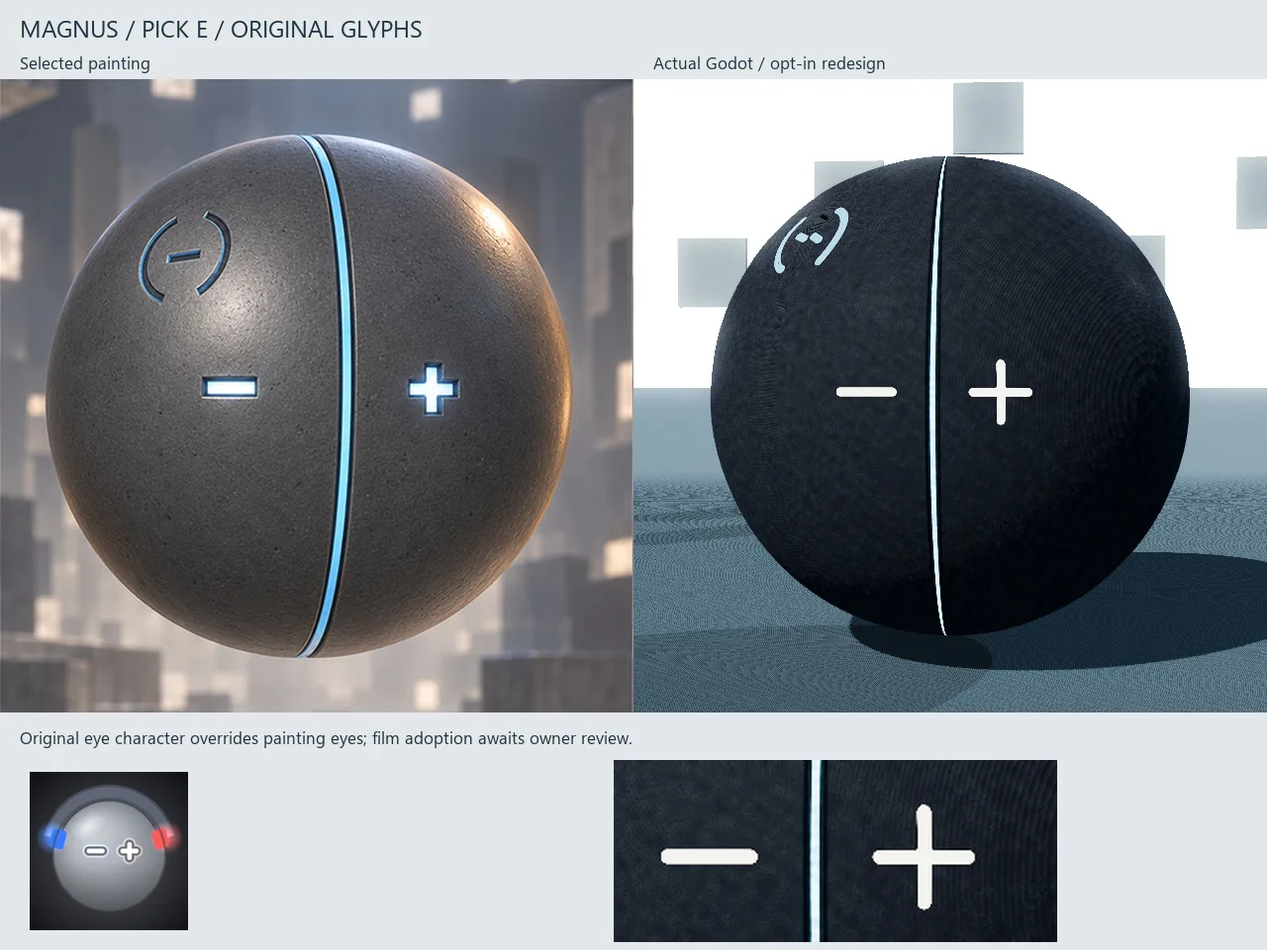
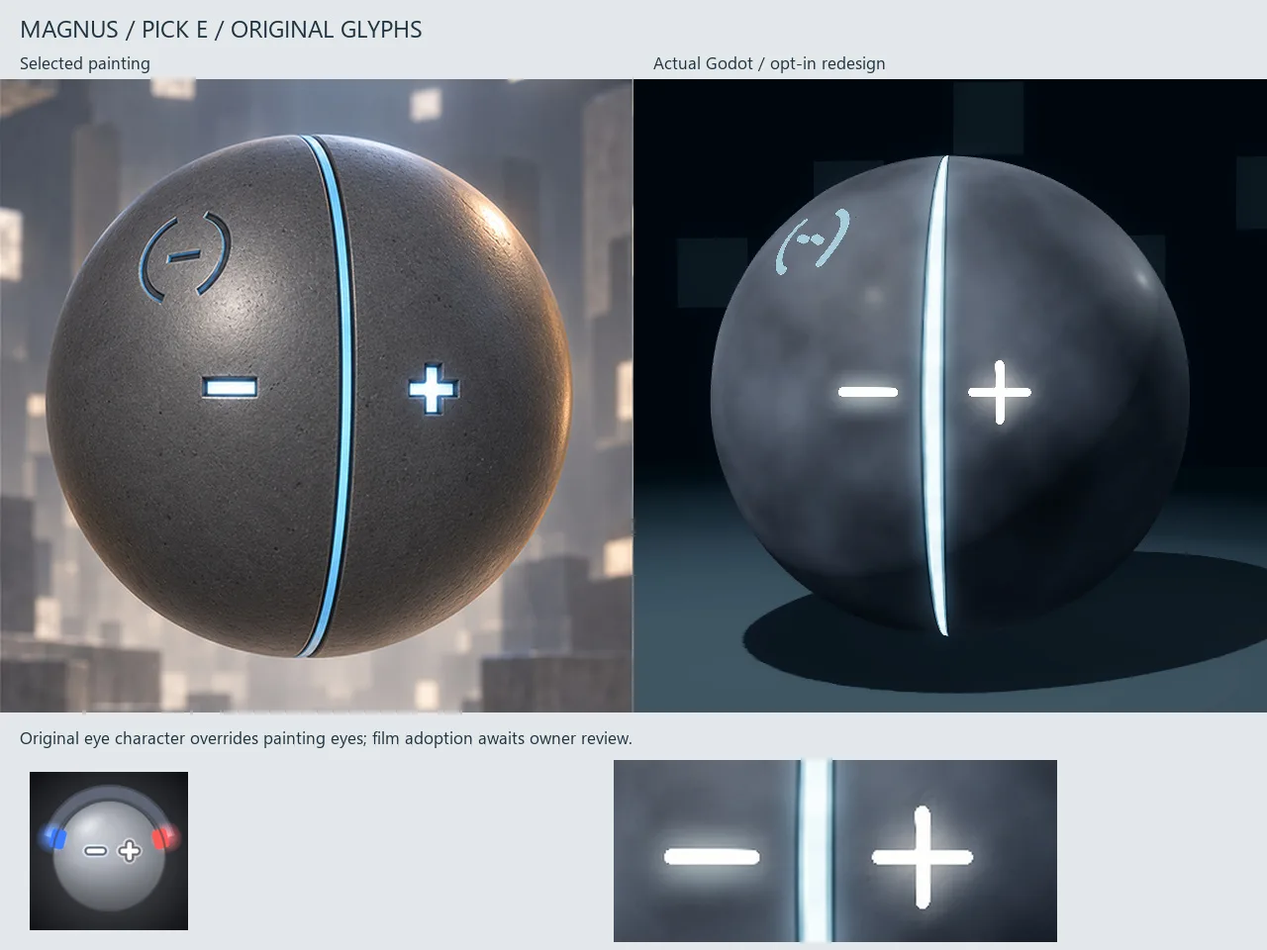
Update orb comparisons with smooth shells

diff --git a/index.html b/index.html
@@ -1,1 +1,1 @@
-<!doctype html><html lang="en"><head><meta charset="utf-8"><meta name="viewport" content="width=device-width,initial-scale=1"><meta name="description" content="Orb Fighters: building a living sandbox, one readable clash at a time."><meta name="color-scheme" content="light"><title>Development journal &middot; Orb Fighters</title><link rel="stylesheet" href="assets/style.css"></head><body><a class="skip" href="#main">Skip to content</a><header><a class="brand" href="index.html"><span class="brand-mark" aria-hidden="true">OF</span><span>ORB FIGHTERS<small>DEVELOPMENT JOURNAL</small></span></a><nav aria-label="Main navigation"><a href="index.html" aria-current="page">Home</a><a href="milestones.html">Milestones</a><a href="gallery.html">Gallery</a><a href="design.html">Design</a></nav></header><main id="main"><section class="hero"><div><p class="eyebrow">A WORLD IN THE MAKING</p><h1>Small beings.<br><span>Limitless possibility.</span></h1><p class="intro">Follow Orb Fighters as a living sandbox takes shape: expressive orbs, physical powers, and fights that leave a mark.</p><a class="button" href="milestones.html">Follow the milestones <span aria-hidden="true">&rarr;</span></a></div><div class="hero-media"><a class="hero-image-link" href="posts/2026-10-02-the-orbs-side-by-side.html" aria-label="Read the latest visual development update"><figure class="wip-still"><img src="assets/media/2026-10-02-the-orbs-side-by-side-still-2.webp" alt="MAGNUS selected slate direction beside the dark rendered shell with original minus and plus glyphs" loading="eager" decoding="async"><figcaption><span class="wip-label">Work in progress</span> MAGNUS first-look WIP: the dark slate shell and blue meridian preserve its distinct identity. Surface finish and depth of light remain unfinished.</figcaption></figure></a></div></section><section class="updates"><div class="section-title"><h2>Latest from the workshop</h2><span>NEWEST FIRST</span></div><div class="post-grid"><article class="post-card"><figure class="wip-still"><a href="assets/media/2026-10-02-a-fight-you-can-follow-still-2.webp"><img src="assets/media/2026-10-02-a-fight-you-can-follow-still-2.webp" alt="Round BLAZE descends toward an unobstructed tiled floor with TERRA visible nearby" width="1080" height="1920" loading="lazy" decoding="async"></a><figcaption><span class="wip-label">Work in progress</span> 8.867 s - BLAZE stays round during descent, with the landing floor and TERRA visible.</figcaption></figure><div class="post-meta"><time datetime="2026-10-02T16:28+09:00">02 Oct 2026, 16:28 KST</time><span class="badge">Work in progress</span></div><h2><a href="posts/2026-10-02-a-fight-you-can-follow.html">Letting the landing read</a></h2><p>The reference fight now shows BLAZE&#39;s landing without foreground stone covering the contact. BLAZE remains round as it descends, then compresses after touching the floor. That makes the fall&#39;s weight easier to read.</p><a class="read-more" href="posts/2026-10-02-a-fight-you-can-follow.html">Read the update &rarr;</a></article><article class="post-card"><figure class="wip-still"><a href="assets/media/2026-10-02-the-orbs-side-by-side-still-1.webp"><img src="assets/media/2026-10-02-the-orbs-side-by-side-still-1.webp" alt="Today’s eight selected shell paintings beside actual Godot renders and original glyph crops" loading="lazy" decoding="async"></a><figcaption><span class="wip-label">Work in progress</span> Today’s first batch: selected paintings beside current renders. Original small glyphs and distinct shell colours are retained. Stone/ceramic finish, recessed wider channels and contained light are still being polished.</figcaption></figure><div class="post-meta"><time datetime="2026-10-02T16:05:00+09:00">02 Oct 2026, 16:05 KST</time><span class="badge">Work in progress</span></div><h2><a href="posts/2026-10-02-the-orbs-side-by-side.html">Original small glyphs, eight shell directions</a></h2><p>Eight orbs now share a clearer visual direction without losing their individual colours or small original eye glyphs. These pairs put the selected shell paintings beside the first rendered batch.</p><a class="read-more" href="posts/2026-10-02-the-orbs-side-by-side.html">Read the update &rarr;</a></article><article class="post-card"><figure class="wip-still"><img src="assets/media/2026-10-01-a-cleaner-reference-fight-still-1.webp" alt="BLAZE drives an orange blade toward TERRA amid sparks in the earlier reference pass" width="1080" height="1920" loading="lazy" decoding="async"><figcaption><span class="wip-label">Work in progress</span> Before: the contact is readable, but bright sparks and steam crowd its focal point. This is authored reference-animation WIP.</figcaption></figure><div class="post-meta"><time datetime="2026-10-01T11:07:00+09:00">01 Oct 2026, 11:07 KST</time><span class="badge">M1</span><span class="badge">In progress</span></div><h2><a href="posts/2026-10-01-a-cleaner-reference-fight.html">A cleaner reference fight</a></h2><p>We have withdrawn the short video from this reference-fight update because the action is too confusing. Frequent angle changes, crowded fighters and weak plasma shapes make the exchange hard to follow. These work-in-progress stills remain for comparison while we rebuild the sequence.</p><a class="read-more" href="posts/2026-10-01-a-cleaner-reference-fight.html">Read the update <span aria-hidden="true">&rarr;</span></a></article><article class="post-card"><figure class="wip-still"><img src="assets/media/2026-10-01-moves-tested-as-a-complete-chain-still-1.webp" alt="Warm earth-colored TERRA faces vivid red BLAZE at a staged contact" width="1080" height="1920" loading="lazy" decoding="async"><figcaption><span class="wip-label">Work in progress</span> Latest selected orb material WIP. Red body shading is clearer, but the blade remains hidden; the next reference render changes the contact staging.</figcaption></figure><div class="post-meta"><time datetime="2026-10-01T09:44:00+09:00">01 Oct 2026, 09:44 KST</time><span class="badge">M1</span><span class="badge">In progress</span></div><h2><a href="posts/2026-10-01-moves-tested-as-a-complete-chain.html">Testing moves as a complete chain</a></h2><p>A technique can now reach the native duel core as a complete ordered chain of moves. The core quotes the whole chain before accepting it, so a later step cannot quietly overspend Glow or reuse matter that an earlier step has already reserved. An invalid step leaves the world unchanged.</p><a class="read-more" href="posts/2026-10-01-moves-tested-as-a-complete-chain.html">Read the update <span aria-hidden="true">&rarr;</span></a></article><article class="post-card"><figure class="wip-still"><img src="assets/media/2026-10-01-kept-builds-survive-a-fresh-world-still-1.webp" alt="A surviving stone pillar stands after a scripted Keep action" width="1080" height="1920" loading="lazy" decoding="async"><figcaption><span class="wip-label">Work in progress</span> Later native capture of the paid kept build. Its surviving state is tested, but the pale box material is unfinished; detailed stone shading is next.</figcaption></figure><div class="post-meta"><time datetime="2026-10-01T09:01:00+09:00">01 Oct 2026, 09:01 KST</time><span class="badge">M1</span><span class="badge">In progress</span></div><h2><a href="posts/2026-10-01-kept-builds-survive-a-fresh-world.html">Kept builds survive a fresh world</a></h2><p>The latest scripted control test now keeps a real, surviving stone build. The player targets it, pays once, and a repeated Keep action spends nothing extra. Clean leaves that paid kept build intact without issuing a refund.</p><a class="read-more" href="posts/2026-10-01-kept-builds-survive-a-fresh-world.html">Read the update <span aria-hidden="true">&rarr;</span></a></article><article class="post-card"><figure class="wip-still"><img src="assets/media/2026-10-01-controls-reach-the-duel-still-1.webp" alt="TERRA shapes stone beside BLAZE during a native input test" width="1080" height="1920" loading="lazy" decoding="async"><figcaption><span class="wip-label">Work in progress</span> Later recorded follow-up to the scripted contacts. The native input path works, but the pale pillar reads poorly; surface materials are next.</figcaption></figure><div class="post-meta"><time datetime="2026-10-01T08:31:00+09:00">01 Oct 2026, 08:31 KST</time><span class="badge">M1</span><span class="badge">In progress</span></div><h2><a href="posts/2026-10-01-controls-reach-the-duel.html">The controls reach the duel</a></h2><p>The latest scripted control test produced three physical contacts and a broken guard between TERRA and BLAZE. Every authored movement and power-shape upload in that run was accepted. The controls and shared motion now connect to the native duel&#39;s consequences.</p><a class="read-more" href="posts/2026-10-01-controls-reach-the-duel.html">Read the update <span aria-hidden="true">&rarr;</span></a></article><article class="post-card"><figure class="wip-still"><img src="assets/media/2026-10-01-giving-moves-real-consequences-still-1.webp" alt="TERRA and BLAZE stand beside a newly formed stone pillar" width="1080" height="1920" loading="lazy" decoding="async"><figcaption><span class="wip-label">Work in progress</span> Later native control capture, not the backend fixture described above. Geometry and costs are native, but stone shading and the small viewport need work.</figcaption></figure><div class="post-meta"><time datetime="2026-10-01T07:39:00+09:00">01 Oct 2026, 07:39 KST</time><span class="badge">M1</span><span class="badge">In progress</span></div><h2><a href="posts/2026-10-01-giving-moves-real-consequences.html">Giving moves real consequences</a></h2><p>The new duel backend now runs inside Godot. It accepts authored movement and power shapes, checks the available Glow and existing matter, and resolves physical contacts. Animation supplies the movement; the core accounts for its consequences.</p><a class="read-more" href="posts/2026-10-01-giving-moves-real-consequences.html">Read the update <span aria-hidden="true">&rarr;</span></a></article><article class="post-card"><figure class="wip-still"><img src="assets/media/2026-10-01-the-journal-is-live-still-1.webp" alt="The development journal home page with dated progress posts" width="1280" height="2258" loading="lazy" decoding="async"><figcaption><span class="wip-label">Work in progress</span> Later journal screenshot. This earlier layout still had no post media; images and short WIP clips are being added now.</figcaption></figure><div class="post-meta"><time datetime="2026-10-01T06:55:00+09:00">01 Oct 2026, 06:55 KST</time><span class="badge">M1</span><span class="badge">In progress</span></div><h2><a href="posts/2026-10-01-the-journal-is-live.html">The development journal is live</a></h2><p>This journal is now online. It brings together the latest development posts, milestone status and a readable summary of the design, so the progress of Orb Fighters is easier to follow on a phone.</p><a class="read-more" href="posts/2026-10-01-the-journal-is-live.html">Read the update <span aria-hidden="true">&rarr;</span></a></article><article class="post-card"><figure class="wip-still"><img src="assets/media/2026-10-01-making-fields-visible-still-1.webp" alt="MAGNUS prepares magnetic power above scattered metal filings" width="720" height="1280" loading="lazy" decoding="async"><figcaption><span class="wip-label">Work in progress</span> Cosmetic component WIP: tangible filings show the field, but they disappear at phone size. Larger, clearer alignment changes are next.</figcaption></figure><div class="post-meta"><time datetime="2026-10-01T05:24:00+09:00">01 Oct 2026, 05:24 KST</time><span class="badge">M1</span><span class="badge">In progress</span></div><h2><a href="posts/2026-10-01-making-fields-visible.html">Making fields visible through matter</a></h2><p>The latest MAGNUS study shows magnetic power through metal filings and moving alloy fragments. The field becomes visible through what it moves, giving this fighter a different shape language from stone, plasma and electrical discharge.</p><a class="read-more" href="posts/2026-10-01-making-fields-visible.html">Read the update <span aria-hidden="true">&rarr;</span></a></article><article class="post-card"><figure class="wip-still"><img src="assets/media/2026-10-01-framing-the-moment-of-contact-still-1.webp" alt="TERRA faces the camera under a dense stone-dust effect" width="1080" height="1920" loading="lazy" decoding="async"><figcaption><span class="wip-label">Work in progress</span> Camera-revision WIP: the fighter is large, but dense dust and speed lines compete with its eyes. Cleaner contact shapes are next.</figcaption></figure><div class="post-meta"><time datetime="2026-10-01T04:45:00+09:00">01 Oct 2026, 04:45 KST</time><span class="badge">M1</span><span class="badge">In progress</span></div><h2><a href="posts/2026-10-01-framing-the-moment-of-contact.html">Framing the moment of contact</a></h2><p>The latest reference-fight camera brings more of the action into view. In the recorded revision, 466 of 600 frames meet the current fighter-size and framing target, up from 332. The target is 480, and all three major impacts now keep the fighter shells inside their safety margin.</p><a class="read-more" href="posts/2026-10-01-framing-the-moment-of-contact.html">Read the update <span aria-hidden="true">&rarr;</span></a></article><article class="post-card"><figure class="wip-still"><img src="assets/media/2026-10-01-making-the-workshop-readable-still-1.webp" alt="TERRA is shown in a dedicated dummy view above technique fields" width="1080" height="1920" loading="lazy" decoding="async"><figcaption><span class="wip-label">Work in progress</span> Later control-only follow-up: the dummy has its own view. Combat is unavailable; more space for the fight is still needed.</figcaption></figure><div class="post-meta"><time datetime="2026-10-01T04:03:00+09:00">01 Oct 2026, 04:03 KST</time><span class="badge">M4</span><span class="badge">Groundwork</span></div><h2><a href="posts/2026-10-01-making-the-workshop-readable.html">Making the workshop readable</a></h2><p>The technique workshop now gives its live dummy a separate view. Larger text and scrolling controls let you adjust a recipe without covering the orb&#39;s eyes. The control guide has its own space, so instructions stay clear of the demonstration.</p><a class="read-more" href="posts/2026-10-01-making-the-workshop-readable.html">Read the update <span aria-hidden="true">&rarr;</span></a></article><article class="post-card"><figure class="wip-still"><img src="assets/media/2026-10-01-testing-controls-before-the-duel-still-1.webp" alt="TERRA faces BLAZE while a gesture charge is shown" width="1080" height="1920" loading="lazy" decoding="async"><figcaption><span class="wip-label">Work in progress</span> Input prototype only: combat is unavailable in this version. The faint guide and cramped opening view need correction.</figcaption></figure><div class="post-meta"><time datetime="2026-10-01T03:15:00+09:00">01 Oct 2026, 03:15 KST</time><span class="badge">M4</span><span class="badge">Groundwork</span></div><h2><a href="posts/2026-10-01-testing-controls-before-the-duel.html">Testing the controls before the duel</a></h2><p>The first control prototype now runs inside Godot. A recorded input session exercises direction and charge, releasing a technique, quick reactions, lock-on, Clean and Keep requests, and the technique workshop. Thirteen checks passed for input handling and saved recipes.</p><a class="read-more" href="posts/2026-10-01-testing-controls-before-the-duel.html">Read the update <span aria-hidden="true">&rarr;</span></a></article><article class="post-card"><figure class="wip-still"><img src="assets/media/2026-10-01-craft-and-first-playable-still-1.webp" alt="TERRA braces below a cloud of stone dust" width="1080" height="1920" loading="lazy" decoding="async"><figcaption><span class="wip-label">Work in progress</span> Later reference-animation WIP: dust and stone crowd the contact image. Clearer effect staging and quieter scenery are next.</figcaption></figure><div class="post-meta"><time datetime="2026-10-01T02:44:00+09:00">01 Oct 2026, 02:44 KST</time><span class="badge">M1</span><span class="badge">In progress</span></div><h2><a href="posts/2026-10-01-craft-and-first-playable.html">A clearer fight, a brighter world</a></h2><p>Orb Fighters is building toward fluid, creative power fights in a world that remembers what happened. The first reference spar pairs BLAZE&#39;s plasma with TERRA&#39;s stone shaping. That short fight sets the quality target before the systems grow around it.</p><a class="read-more" href="posts/2026-10-01-craft-and-first-playable.html">Read the update <span aria-hidden="true">&rarr;</span></a></article></div></section></main><footer><strong>Orb Fighters</strong><span>Original worlds. Shared rules. Unexpected fights.</span><a href="design.html">Explore the design</a></footer></body></html>
+<!doctype html><html lang="en"><head><meta charset="utf-8"><meta name="viewport" content="width=device-width,initial-scale=1"><meta name="description" content="Orb Fighters: building a living sandbox, one readable clash at a time."><meta name="color-scheme" content="light"><title>Development journal &middot; Orb Fighters</title><link rel="stylesheet" href="assets/style.css"></head><body><a class="skip" href="#main">Skip to content</a><header><a class="brand" href="index.html"><span class="brand-mark" aria-hidden="true">OF</span><span>ORB FIGHTERS<small>DEVELOPMENT JOURNAL</small></span></a><nav aria-label="Main navigation"><a href="index.html" aria-current="page">Home</a><a href="milestones.html">Milestones</a><a href="gallery.html">Gallery</a><a href="design.html">Design</a></nav></header><main id="main"><section class="hero"><div><p class="eyebrow">A WORLD IN THE MAKING</p><h1>Small beings.<br><span>Limitless possibility.</span></h1><p class="intro">Follow Orb Fighters as a living sandbox takes shape: expressive orbs, physical powers, and fights that leave a mark.</p><a class="button" href="milestones.html">Follow the milestones <span aria-hidden="true">&rarr;</span></a></div><div class="hero-media"><a class="hero-image-link" href="posts/2026-10-02-the-orbs-side-by-side.html" aria-label="Read the orb shell development update"><figure class="wip-still"><img src="assets/media/2026-10-02-the-orbs-side-by-side-still-2.webp?v=smooth-stone" alt="MAGNUS painting beside a smooth dark slate orb with a blue meridian and small minus and plus eyes" loading="eager" decoding="async"><figcaption><span class="wip-label">Work in progress</span> MAGNUS WIP: the dark slate shell and blue meridian remain distinct. The render is cleaner and cloudier than the painting, with a fairly uniform bright eye core.</figcaption></figure></a></div></section><section class="updates"><div class="section-title"><h2>Latest from the workshop</h2><span>NEWEST FIRST</span></div><div class="post-grid"><article class="post-card"><figure class="wip-still"><a href="assets/media/2026-10-02-a-fight-you-can-follow-still-2.webp"><img src="assets/media/2026-10-02-a-fight-you-can-follow-still-2.webp" alt="Round BLAZE descends toward an unobstructed tiled floor with TERRA visible nearby" width="1080" height="1920" loading="lazy" decoding="async"></a><figcaption><span class="wip-label">Work in progress</span> 8.867 s - BLAZE stays round during descent, with the landing floor and TERRA visible.</figcaption></figure><div class="post-meta"><time datetime="2026-10-02T16:28+09:00">02 Oct 2026, 16:28 KST</time><span class="badge">Work in progress</span></div><h2><a href="posts/2026-10-02-a-fight-you-can-follow.html">Letting the landing read</a></h2><p>The reference fight now shows BLAZE&#39;s landing without foreground stone covering the contact. BLAZE remains round as it descends, then compresses after touching the floor. That makes the fall&#39;s weight easier to read.</p><a class="read-more" href="posts/2026-10-02-a-fight-you-can-follow.html">Read the update &rarr;</a></article><article class="post-card"><figure class="wip-still"><a href="assets/media/2026-10-02-the-orbs-side-by-side-still-1.webp?v=smooth-stone"><img src="assets/media/2026-10-02-the-orbs-side-by-side-still-1.webp?v=smooth-stone" alt="Eight selected shell paintings beside smooth stone and ceramic orb renders in a dark studio" loading="lazy" decoding="async"></a><figcaption><span class="wip-label">Work in progress</span> Updated WIP: smoother stone and ceramic shells, wider lit inlays and a darker studio. Original small glyphs and distinct colours remain; wear and eye-light depth still need work.</figcaption></figure><div class="post-meta"><time datetime="2026-10-02T16:05:00+09:00">02 Oct 2026, 16:05 KST</time><span class="badge">Work in progress</span></div><h2><a href="posts/2026-10-02-the-orbs-side-by-side.html">Original small glyphs, eight shell directions</a></h2><p>Eight orb shells now read more like smooth stone and ceramic. Wider lit inlays stand out in a darker studio, while the small original eye glyphs and distinct colours remain.</p><a class="read-more" href="posts/2026-10-02-the-orbs-side-by-side.html">Read the update &rarr;</a></article><article class="post-card"><figure class="wip-still"><img src="assets/media/2026-10-01-a-cleaner-reference-fight-still-1.webp" alt="BLAZE drives an orange blade toward TERRA amid sparks in the earlier reference pass" width="1080" height="1920" loading="lazy" decoding="async"><figcaption><span class="wip-label">Work in progress</span> Before: the contact is readable, but bright sparks and steam crowd its focal point. This is authored reference-animation WIP.</figcaption></figure><div class="post-meta"><time datetime="2026-10-01T11:07:00+09:00">01 Oct 2026, 11:07 KST</time><span class="badge">M1</span><span class="badge">In progress</span></div><h2><a href="posts/2026-10-01-a-cleaner-reference-fight.html">A cleaner reference fight</a></h2><p>We have withdrawn the short video from this reference-fight update because the action is too confusing. Frequent angle changes, crowded fighters and weak plasma shapes make the exchange hard to follow. These work-in-progress stills remain for comparison while we rebuild the sequence.</p><a class="read-more" href="posts/2026-10-01-a-cleaner-reference-fight.html">Read the update <span aria-hidden="true">&rarr;</span></a></article><article class="post-card"><figure class="wip-still"><img src="assets/media/2026-10-01-moves-tested-as-a-complete-chain-still-1.webp" alt="Warm earth-colored TERRA faces vivid red BLAZE at a staged contact" width="1080" height="1920" loading="lazy" decoding="async"><figcaption><span class="wip-label">Work in progress</span> Latest selected orb material WIP. Red body shading is clearer, but the blade remains hidden; the next reference render changes the contact staging.</figcaption></figure><div class="post-meta"><time datetime="2026-10-01T09:44:00+09:00">01 Oct 2026, 09:44 KST</time><span class="badge">M1</span><span class="badge">In progress</span></div><h2><a href="posts/2026-10-01-moves-tested-as-a-complete-chain.html">Testing moves as a complete chain</a></h2><p>A technique can now reach the native duel core as a complete ordered chain of moves. The core quotes the whole chain before accepting it, so a later step cannot quietly overspend Glow or reuse matter that an earlier step has already reserved. An invalid step leaves the world unchanged.</p><a class="read-more" href="posts/2026-10-01-moves-tested-as-a-complete-chain.html">Read the update <span aria-hidden="true">&rarr;</span></a></article><article class="post-card"><figure class="wip-still"><img src="assets/media/2026-10-01-kept-builds-survive-a-fresh-world-still-1.webp" alt="A surviving stone pillar stands after a scripted Keep action" width="1080" height="1920" loading="lazy" decoding="async"><figcaption><span class="wip-label">Work in progress</span> Later native capture of the paid kept build. Its surviving state is tested, but the pale box material is unfinished; detailed stone shading is next.</figcaption></figure><div class="post-meta"><time datetime="2026-10-01T09:01:00+09:00">01 Oct 2026, 09:01 KST</time><span class="badge">M1</span><span class="badge">In progress</span></div><h2><a href="posts/2026-10-01-kept-builds-survive-a-fresh-world.html">Kept builds survive a fresh world</a></h2><p>The latest scripted control test now keeps a real, surviving stone build. The player targets it, pays once, and a repeated Keep action spends nothing extra. Clean leaves that paid kept build intact without issuing a refund.</p><a class="read-more" href="posts/2026-10-01-kept-builds-survive-a-fresh-world.html">Read the update <span aria-hidden="true">&rarr;</span></a></article><article class="post-card"><figure class="wip-still"><img src="assets/media/2026-10-01-controls-reach-the-duel-still-1.webp" alt="TERRA shapes stone beside BLAZE during a native input test" width="1080" height="1920" loading="lazy" decoding="async"><figcaption><span class="wip-label">Work in progress</span> Later recorded follow-up to the scripted contacts. The native input path works, but the pale pillar reads poorly; surface materials are next.</figcaption></figure><div class="post-meta"><time datetime="2026-10-01T08:31:00+09:00">01 Oct 2026, 08:31 KST</time><span class="badge">M1</span><span class="badge">In progress</span></div><h2><a href="posts/2026-10-01-controls-reach-the-duel.html">The controls reach the duel</a></h2><p>The latest scripted control test produced three physical contacts and a broken guard between TERRA and BLAZE. Every authored movement and power-shape upload in that run was accepted. The controls and shared motion now connect to the native duel&#39;s consequences.</p><a class="read-more" href="posts/2026-10-01-controls-reach-the-duel.html">Read the update <span aria-hidden="true">&rarr;</span></a></article><article class="post-card"><figure class="wip-still"><img src="assets/media/2026-10-01-giving-moves-real-consequences-still-1.webp" alt="TERRA and BLAZE stand beside a newly formed stone pillar" width="1080" height="1920" loading="lazy" decoding="async"><figcaption><span class="wip-label">Work in progress</span> Later native control capture, not the backend fixture described above. Geometry and costs are native, but stone shading and the small viewport need work.</figcaption></figure><div class="post-meta"><time datetime="2026-10-01T07:39:00+09:00">01 Oct 2026, 07:39 KST</time><span class="badge">M1</span><span class="badge">In progress</span></div><h2><a href="posts/2026-10-01-giving-moves-real-consequences.html">Giving moves real consequences</a></h2><p>The new duel backend now runs inside Godot. It accepts authored movement and power shapes, checks the available Glow and existing matter, and resolves physical contacts. Animation supplies the movement; the core accounts for its consequences.</p><a class="read-more" href="posts/2026-10-01-giving-moves-real-consequences.html">Read the update <span aria-hidden="true">&rarr;</span></a></article><article class="post-card"><figure class="wip-still"><img src="assets/media/2026-10-01-the-journal-is-live-still-1.webp" alt="The development journal home page with dated progress posts" width="1280" height="2258" loading="lazy" decoding="async"><figcaption><span class="wip-label">Work in progress</span> Later journal screenshot. This earlier layout still had no post media; images and short WIP clips are being added now.</figcaption></figure><div class="post-meta"><time datetime="2026-10-01T06:55:00+09:00">01 Oct 2026, 06:55 KST</time><span class="badge">M1</span><span class="badge">In progress</span></div><h2><a href="posts/2026-10-01-the-journal-is-live.html">The development journal is live</a></h2><p>This journal is now online. It brings together the latest development posts, milestone status and a readable summary of the design, so the progress of Orb Fighters is easier to follow on a phone.</p><a class="read-more" href="posts/2026-10-01-the-journal-is-live.html">Read the update <span aria-hidden="true">&rarr;</span></a></article><article class="post-card"><figure class="wip-still"><img src="assets/media/2026-10-01-making-fields-visible-still-1.webp" alt="MAGNUS prepares magnetic power above scattered metal filings" width="720" height="1280" loading="lazy" decoding="async"><figcaption><span class="wip-label">Work in progress</span> Cosmetic component WIP: tangible filings show the field, but they disappear at phone size. Larger, clearer alignment changes are next.</figcaption></figure><div class="post-meta"><time datetime="2026-10-01T05:24:00+09:00">01 Oct 2026, 05:24 KST</time><span class="badge">M1</span><span class="badge">In progress</span></div><h2><a href="posts/2026-10-01-making-fields-visible.html">Making fields visible through matter</a></h2><p>The latest MAGNUS study shows magnetic power through metal filings and moving alloy fragments. The field becomes visible through what it moves, giving this fighter a different shape language from stone, plasma and electrical discharge.</p><a class="read-more" href="posts/2026-10-01-making-fields-visible.html">Read the update <span aria-hidden="true">&rarr;</span></a></article><article class="post-card"><figure class="wip-still"><img src="assets/media/2026-10-01-framing-the-moment-of-contact-still-1.webp" alt="TERRA faces the camera under a dense stone-dust effect" width="1080" height="1920" loading="lazy" decoding="async"><figcaption><span class="wip-label">Work in progress</span> Camera-revision WIP: the fighter is large, but dense dust and speed lines compete with its eyes. Cleaner contact shapes are next.</figcaption></figure><div class="post-meta"><time datetime="2026-10-01T04:45:00+09:00">01 Oct 2026, 04:45 KST</time><span class="badge">M1</span><span class="badge">In progress</span></div><h2><a href="posts/2026-10-01-framing-the-moment-of-contact.html">Framing the moment of contact</a></h2><p>The latest reference-fight camera brings more of the action into view. In the recorded revision, 466 of 600 frames meet the current fighter-size and framing target, up from 332. The target is 480, and all three major impacts now keep the fighter shells inside their safety margin.</p><a class="read-more" href="posts/2026-10-01-framing-the-moment-of-contact.html">Read the update <span aria-hidden="true">&rarr;</span></a></article><article class="post-card"><figure class="wip-still"><img src="assets/media/2026-10-01-making-the-workshop-readable-still-1.webp" alt="TERRA is shown in a dedicated dummy view above technique fields" width="1080" height="1920" loading="lazy" decoding="async"><figcaption><span class="wip-label">Work in progress</span> Later control-only follow-up: the dummy has its own view. Combat is unavailable; more space for the fight is still needed.</figcaption></figure><div class="post-meta"><time datetime="2026-10-01T04:03:00+09:00">01 Oct 2026, 04:03 KST</time><span class="badge">M4</span><span class="badge">Groundwork</span></div><h2><a href="posts/2026-10-01-making-the-workshop-readable.html">Making the workshop readable</a></h2><p>The technique workshop now gives its live dummy a separate view. Larger text and scrolling controls let you adjust a recipe without covering the orb&#39;s eyes. The control guide has its own space, so instructions stay clear of the demonstration.</p><a class="read-more" href="posts/2026-10-01-making-the-workshop-readable.html">Read the update <span aria-hidden="true">&rarr;</span></a></article><article class="post-card"><figure class="wip-still"><img src="assets/media/2026-10-01-testing-controls-before-the-duel-still-1.webp" alt="TERRA faces BLAZE while a gesture charge is shown" width="1080" height="1920" loading="lazy" decoding="async"><figcaption><span class="wip-label">Work in progress</span> Input prototype only: combat is unavailable in this version. The faint guide and cramped opening view need correction.</figcaption></figure><div class="post-meta"><time datetime="2026-10-01T03:15:00+09:00">01 Oct 2026, 03:15 KST</time><span class="badge">M4</span><span class="badge">Groundwork</span></div><h2><a href="posts/2026-10-01-testing-controls-before-the-duel.html">Testing the controls before the duel</a></h2><p>The first control prototype now runs inside Godot. A recorded input session exercises direction and charge, releasing a technique, quick reactions, lock-on, Clean and Keep requests, and the technique workshop. Thirteen checks passed for input handling and saved recipes.</p><a class="read-more" href="posts/2026-10-01-testing-controls-before-the-duel.html">Read the update <span aria-hidden="true">&rarr;</span></a></article><article class="post-card"><figure class="wip-still"><img src="assets/media/2026-10-01-craft-and-first-playable-still-1.webp" alt="TERRA braces below a cloud of stone dust" width="1080" height="1920" loading="lazy" decoding="async"><figcaption><span class="wip-label">Work in progress</span> Later reference-animation WIP: dust and stone crowd the contact image. Clearer effect staging and quieter scenery are next.</figcaption></figure><div class="post-meta"><time datetime="2026-10-01T02:44:00+09:00">01 Oct 2026, 02:44 KST</time><span class="badge">M1</span><span class="badge">In progress</span></div><h2><a href="posts/2026-10-01-craft-and-first-playable.html">A clearer fight, a brighter world</a></h2><p>Orb Fighters is building toward fluid, creative power fights in a world that remembers what happened. The first reference spar pairs BLAZE&#39;s plasma with TERRA&#39;s stone shaping. That short fight sets the quality target before the systems grow around it.</p><a class="read-more" href="posts/2026-10-01-craft-and-first-playable.html">Read the update <span aria-hidden="true">&rarr;</span></a></article></div></section></main><footer><strong>Orb Fighters</strong><span>Original worlds. Shared rules. Unexpected fights.</span><a href="design.html">Explore the design</a></footer></body></html>

diff --git a/posts/2026-10-02-the-orbs-side-by-side.html b/posts/2026-10-02-the-orbs-side-by-side.html
@@ -1,1 +1,1 @@
-<!doctype html><html lang="en"><head><meta charset="utf-8"><meta name="viewport" content="width=device-width,initial-scale=1"><meta name="description" content="Orb Fighters: building a living sandbox, one readable clash at a time."><meta name="color-scheme" content="light"><title>Original small glyphs, eight shell directions &middot; Orb Fighters</title><link rel="stylesheet" href="../assets/style.css"></head><body><a class="skip" href="#main">Skip to content</a><header><a class="brand" href="../index.html"><span class="brand-mark" aria-hidden="true">OF</span><span>ORB FIGHTERS<small>DEVELOPMENT JOURNAL</small></span></a><nav aria-label="Main navigation"><a href="../index.html" aria-current="page">Home</a><a href="../milestones.html">Milestones</a><a href="../gallery.html">Gallery</a><a href="../design.html">Design</a></nav></header><main id="main"><article class="article"><a class="back" href="../index.html">&larr; All updates</a><div class="post-meta"><time datetime="2026-10-02T16:05:00+09:00">02 Oct 2026, 16:05 KST</time><span class="badge">Work in progress</span></div><h1>Original small glyphs, eight shell directions</h1><p>Eight orbs now share a clearer visual direction without losing their individual colours or small original eye glyphs. These pairs put the selected shell paintings beside the first rendered batch.</p><p>The eyes keep their simpler character and lose the heavy drawn outlines. Warm earth, ember red, ochre, ivory, violet, teal and jade remain distinct. MAGNUS stays dark slate, with a restrained blue meridian.</p><p>The identity is stronger, but the shells still need polish. Fine surface patterns can read as fabric, and bright glyphs can look like stickers. The next pass aims for stone and ceramic, wider recessed channels and light that feels contained in the shell.</p><section class="post-visuals"><h2>Eight directions, original glyphs</h2><figure class="wip-still"><a href="../assets/media/2026-10-02-the-orbs-side-by-side-still-1.webp"><img src="../assets/media/2026-10-02-the-orbs-side-by-side-still-1.webp" alt="Today’s eight selected shell paintings beside actual Godot renders and original glyph crops" loading="lazy" decoding="async"></a><figcaption><span class="wip-label">Work in progress</span> Today’s first batch: selected paintings beside current renders. Original small glyphs and distinct shell colours are retained. Stone/ceramic finish, recessed wider channels and contained light are still being polished.</figcaption></figure><figure class="wip-still"><a href="../assets/media/2026-10-02-the-orbs-side-by-side-still-2.webp"><img src="../assets/media/2026-10-02-the-orbs-side-by-side-still-2.webp" alt="MAGNUS selected slate direction beside the dark rendered shell with original minus and plus glyphs" loading="lazy" decoding="async"></a><figcaption><span class="wip-label">Work in progress</span> MAGNUS first-look WIP: the dark slate shell and blue meridian preserve its distinct identity. Surface finish and depth of light remain unfinished.</figcaption></figure><figure class="wip-still"><a href="../assets/media/2026-10-02-the-orbs-side-by-side-still-3.webp"><img src="../assets/media/2026-10-02-the-orbs-side-by-side-still-3.webp" alt="TERRA selected stone painting beside the current warm shell and small original rectangular glyphs" loading="lazy" decoding="async"></a><figcaption><span class="wip-label">Work in progress</span> TERRA first-look WIP: warm base colour, green inlay and original small glyphs. The surface still reads too much like fabric; the next pass aims for stone and a wider recessed light channel.</figcaption></figure></section></article></main><footer><strong>Orb Fighters</strong><span>Original worlds. Shared rules. Unexpected fights.</span><a href="../design.html">Explore the design</a></footer></body></html>
+<!doctype html><html lang="en"><head><meta charset="utf-8"><meta name="viewport" content="width=device-width,initial-scale=1"><meta name="description" content="Orb Fighters: building a living sandbox, one readable clash at a time."><meta name="color-scheme" content="light"><title>Original small glyphs, eight shell directions &middot; Orb Fighters</title><link rel="stylesheet" href="../assets/style.css"></head><body><a class="skip" href="#main">Skip to content</a><header><a class="brand" href="../index.html"><span class="brand-mark" aria-hidden="true">OF</span><span>ORB FIGHTERS<small>DEVELOPMENT JOURNAL</small></span></a><nav aria-label="Main navigation"><a href="../index.html" aria-current="page">Home</a><a href="../milestones.html">Milestones</a><a href="../gallery.html">Gallery</a><a href="../design.html">Design</a></nav></header><main id="main"><article class="article"><a class="back" href="../index.html">&larr; All updates</a><div class="post-meta"><time datetime="2026-10-02T16:05:00+09:00">02 Oct 2026, 16:05 KST</time><span class="badge">Work in progress</span></div><h1>Original small glyphs, eight shell directions</h1><p>Eight orb shells now read more like smooth stone and ceramic. Wider lit inlays stand out in a darker studio, while the small original eye glyphs and distinct colours remain.</p><p>These paired views place the selected paintings beside the latest renders. TERRA has a smoother warm shell and a broad green inlay. MAGNUS keeps its dark slate body and blue meridian; the busy surface patterns have been pared back.</p><p>The painting match is still work in progress. Shell wear looks cloudy and cleaner than the paintings, and the eyes have fairly uniform bright cores. The next pass needs more convincing wear and depth in the light without losing the simple glyphs.</p><section class="post-visuals"><h2>Smoother shells, wider light</h2><figure class="wip-still"><a href="../assets/media/2026-10-02-the-orbs-side-by-side-still-1.webp?v=smooth-stone"><img src="../assets/media/2026-10-02-the-orbs-side-by-side-still-1.webp?v=smooth-stone" alt="Eight selected shell paintings beside smooth stone and ceramic orb renders in a dark studio" loading="lazy" decoding="async"></a><figcaption><span class="wip-label">Work in progress</span> Updated WIP: smoother stone and ceramic shells, wider lit inlays and a darker studio. Original small glyphs and distinct colours remain; wear and eye-light depth still need work.</figcaption></figure><figure class="wip-still"><a href="../assets/media/2026-10-02-the-orbs-side-by-side-still-2.webp?v=smooth-stone"><img src="../assets/media/2026-10-02-the-orbs-side-by-side-still-2.webp?v=smooth-stone" alt="MAGNUS painting beside a smooth dark slate orb with a blue meridian and small minus and plus eyes" loading="lazy" decoding="async"></a><figcaption><span class="wip-label">Work in progress</span> MAGNUS WIP: the dark slate shell and blue meridian remain distinct. The render is cleaner and cloudier than the painting, with a fairly uniform bright eye core.</figcaption></figure><figure class="wip-still"><a href="../assets/media/2026-10-02-the-orbs-side-by-side-still-3.webp?v=smooth-stone"><img src="../assets/media/2026-10-02-the-orbs-side-by-side-still-3.webp?v=smooth-stone" alt="TERRA stone painting beside a smooth warm ceramic shell with a wider green inlay and small rectangular eyes" loading="lazy" decoding="async"></a><figcaption><span class="wip-label">Work in progress</span> TERRA WIP: a smoother warm shell and wider green inlay replace the busy surface treatment. The cloudy wear and bright eye cores still fall short of the painting.</figcaption></figure></section></article></main><footer><strong>Orb Fighters</strong><span>Original worlds. Shared rules. Unexpected fights.</span><a href="../design.html">Explore the design</a></footer></body></html>
